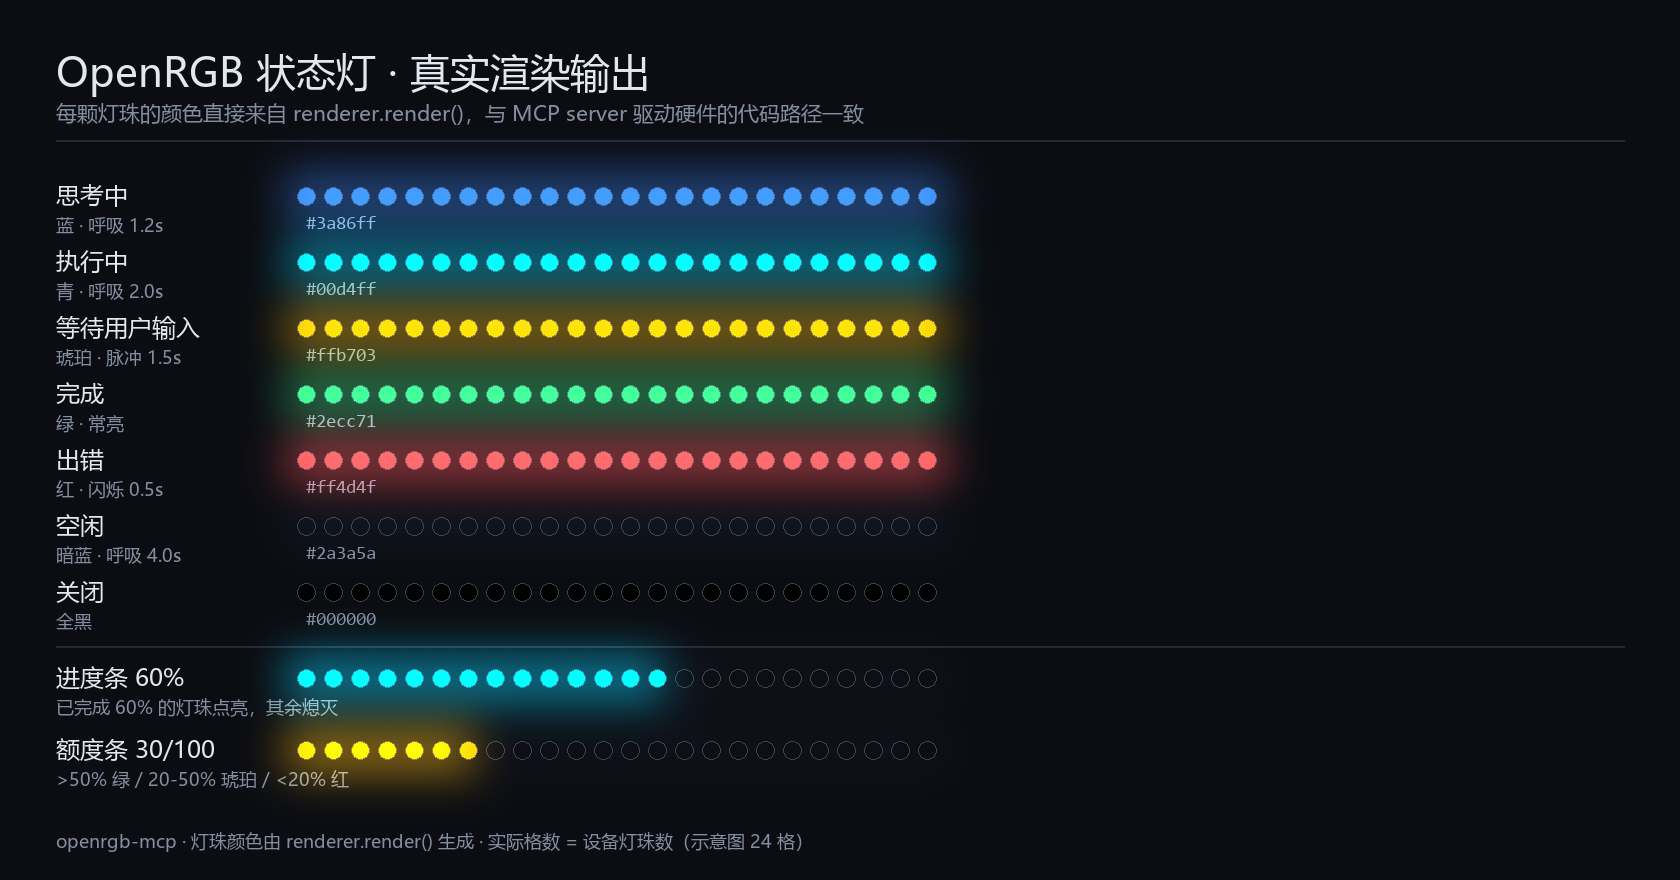
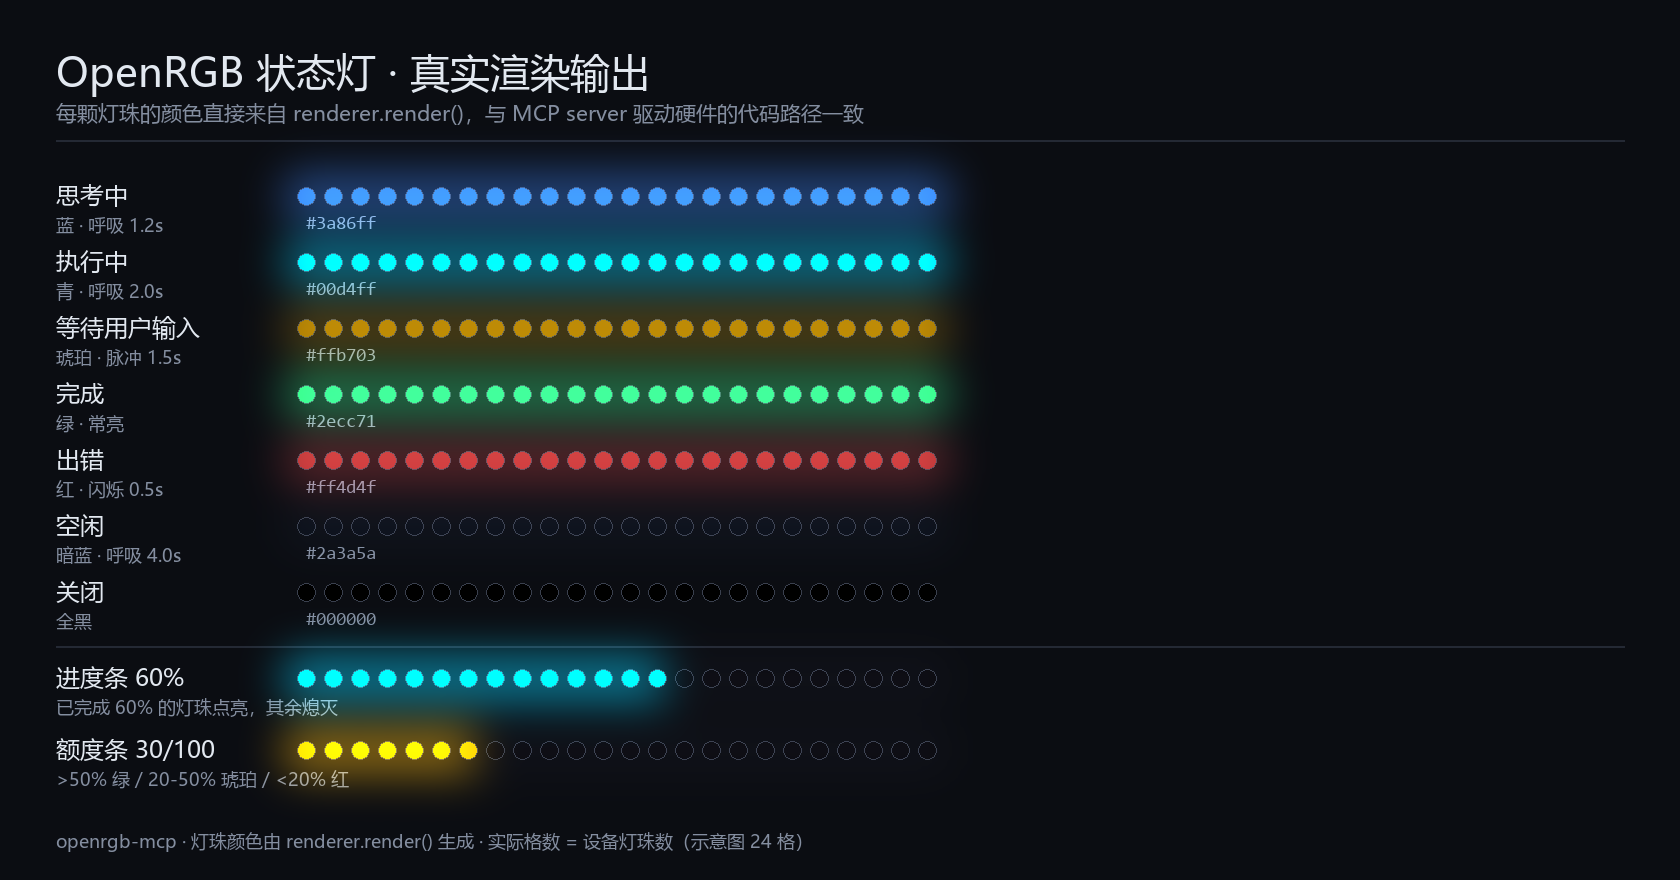
fix: soften every animation - no strobing, slower periods
The 0.5 s hard blink (and the 1.5 s pulse) were harsh on the eyes.

- new 'fade' effect: smooth cosine dip to 20% and back, never reaches black
- 'blink' is kept as a legacy alias of 'fade', so old palettes stay soft
- periods raised: thinking 1.2 -> 2.4 s, working 2.0 -> 3.2 s,
  waiting 1.5 -> 3.6 s (fade), error 0.5 -> 2.8 s (fade)
- measured: max frame-to-frame brightness change is 9..19 (a hard blink
  would be ~255), i.e. every animation is now a continuous curve
- tests updated (fade continuity, no blackout, palette periods)
- docs: README/CONTRACT palette tables and the generated state chart

Changed region(s): [[0.1548, 0.4909, 0.5571, 0.5523], [0.1548, 0.3375, 0.5571, 0.3989]]

diff --git a/tests/test_renderer.py b/tests/test_renderer.py
@@ -62,17 +62,21 @@ def assert_pixels(pixels, count):
 def test_default_palette_matches_contract():
     expected = {
         "idle":     {"color": "#2a3a5a", "brightness": 0.25, "effect": "breathe", "period": 4.0},
-        "thinking": {"color": "#3a86ff", "brightness": 0.85, "effect": "breathe", "period": 1.2},
-        "working":  {"color": "#00d4ff", "brightness": 0.9,  "effect": "breathe", "period": 2.0},
-        "waiting":  {"color": "#ffb703", "brightness": 0.9,  "effect": "pulse",   "period": 1.5},
+        "thinking": {"color": "#3a86ff", "brightness": 0.85, "effect": "breathe", "period": 2.4},
+        "working":  {"color": "#00d4ff", "brightness": 0.9,  "effect": "breathe", "period": 3.2},
+        "waiting":  {"color": "#ffb703", "brightness": 0.9,  "effect": "fade",    "period": 3.6},
         "done":     {"color": "#2ecc71", "brightness": 1.0,  "effect": "solid",   "period": 0},
-        "error":    {"color": "#ff4d4f", "brightness": 1.0,  "effect": "blink",   "period": 0.5},
+        "error":    {"color": "#ff4d4f", "brightness": 1.0,  "effect": "fade",    "period": 2.8},
         "off":      {"color": "#000000", "brightness": 0.0,  "effect": "off",     "period": 0},
     }
     assert DEFAULT_PALETTE == expected
     assert tuple(DEFAULT_PALETTE) == (
         "idle", "thinking", "working", "waiting", "done", "error", "off")
     assert renderer.STATES == tuple(DEFAULT_PALETTE)
+    # no hard strobe anywhere: every animated state is slow and continuous
+    for name, spec in DEFAULT_PALETTE.items():
+        if spec["effect"] in ("breathe", "fade", "blink", "pulse"):
+            assert spec["period"] >= 2.0, (name, spec)
 
 
 def test_hex_parsing():
@@ -176,25 +180,47 @@ def test_breathe_monotonic_and_bounded():
         assert samples[60] == trough, (state, samples[60], trough)
 
 
-def test_blink_alternates():
-    period = DEFAULT_PALETTE["error"]["period"]
-    assert period == 0.5
-    for tick in (0.0, 0.1, 0.249):
-        assert render("error", 3, tick=tick) == [ERROR] * 3, tick
-    for tick in (0.25, 0.4, 0.499, 0.75, 1.25):
-        assert render("error", 3, tick=tick) == [BLACK] * 3, tick
-    assert render("error", 3, tick=0.5) == [ERROR] * 3
-    assert render("error", 3, tick=1.0) == [ERROR] * 3
+def test_fade_is_smooth_and_never_black():
+    """'error'/'waiting' fade instead of blinking: continuous, never black."""
+    for state in ("error", "waiting"):
+        spec = DEFAULT_PALETTE[state]
+        color = parse_hex_color(spec["color"])
+        period = spec["period"]
+        assert period >= 2.0, (state, period)
+        samples = [render(state, 1, tick=index * period / 40)[0] for index in range(41)]
+        # never a hard blackout - the lamp stays softly lit
+        for pixel in samples:
+            assert pixel != BLACK, (state, pixel)
+            assert max(pixel) >= 1, (state, pixel)
+        # the curve is continuous: neighbouring frames never jump far
+        # (a hard blink would jump by the full colour range)
+        for previous, current in zip(samples, samples[1:]):
+            jump = max(abs(a - b) for a, b in zip(previous, current))
+            assert jump <= 30, (state, previous, current, jump)
+        total_jump = max(
+            max(abs(a - b) for a, b in zip(first, last))
+            for first, last in zip(samples, samples[1:])
+        )
+        assert total_jump < 120, (state, total_jump)
+        # it does dip and come back
+        assert max(samples, key=max) != min(samples, key=max)
+        # a legacy "blink" palette entry is softened too, never a hard switch
+        legacy = render(state, 1, tick=period / 2, palette={state: {"effect": "blink"}})
+        assert legacy[0] != BLACK, legacy
 
 
 def test_pulse_varies_and_is_bounded():
-    spec = DEFAULT_PALETTE["waiting"]
+    """The optional 'pulse' effect (not used by the default palette any more)."""
+    palette = {"waiting": {"effect": "pulse", "period": 2.0, "brightness": 0.9}}
+    spec = {"color": "#ffb703", "brightness": 0.9, "period": 2.0}
     color = parse_hex_color(spec["color"])
-    period = spec["period"]
     brightness = spec["brightness"]
     ceiling = apply_color(color, brightness * 1.0)
 
-    samples = [render("waiting", 1, tick=index * period / 20)[0] for index in range(21)]
+    samples = [
+        render("waiting", 1, tick=index * spec["period"] / 20, palette=palette)[0]
+        for index in range(21)
+    ]
     assert len(set(samples)) >= 5, "pulse must vary over a period"
 
     peak = samples[5]    # phase 0.25 (sin maximum)
@@ -258,8 +284,8 @@ def test_progress_clamps_and_uses_python_round():
 
 
 def test_progress_overrides_animation():
-    # error blinks dark during the second half of its 0.5 s period ...
-    assert render("error", 8, tick=0.4) == [BLACK] * 8
+    # the error state fades smoothly and is never fully black ...
+    assert render("error", 8, tick=0.4) != [BLACK] * 8
     # ... but a progress bar is static and replaces the state effect.
     assert render("error", 8, tick=0.4, progress=0.5) == [ERROR] * 4 + [EMPTY] * 4
 
@@ -314,10 +340,10 @@ def test_color_override():
     # invalid hex falls back to the palette colour
     assert render("done", 3, color="#zzzzzz") == [DONE] * 3
     # brightness/animation of the state are preserved
-    expected = apply_color((255, 255, 255), 0.85 * breathe_factor(0.0, 1.2))
+    expected = apply_color((255, 255, 255), 0.85 * breathe_factor(0.0, 2.4))
     assert render("thinking", 2, tick=0.0, color="#ffffff") == [expected] * 2
-    # color override does not defeat the blink effect
-    assert render("error", 5, tick=0.4, color="#00ff00") == [BLACK] * 5
+    # color override does not defeat the state effect either
+    assert render("error", 5, tick=0.4, color="#00ff00") != [BLACK] * 5
 
 
 # ---------------------------------------------------------------------------
@@ -426,7 +452,7 @@ TESTS = [
     test_done_state_is_solid,
     test_breathe_matches_contract_formula,
     test_breathe_monotonic_and_bounded,
-    test_blink_alternates,
+    test_fade_is_smooth_and_never_black,
     test_pulse_varies_and_is_bounded,
     test_unknown_state_falls_back_to_idle,
     test_state_name_normalization,

diff --git a/src/openrgb_mcp/renderer.py b/src/openrgb_mcp/renderer.py
@@ -9,13 +9,16 @@ bar.
 Animation model (``tick`` is seconds relative to an arbitrary origin):
 
     breathe   brightness = base * (0.55 + 0.45 * (0.5 + 0.5*sin(2*pi*tick/period)))
-    blink     lit during the first half of ``period``, dark during the second
+    fade      smooth dip to 20% and back, never fully black (no strobing)
+    blink     legacy name for ``fade`` - kept soft on purpose
     pulse     smooth square pulse, brightness factor in [0.2, 1.0] of ``base``
     solid     full ``base`` brightness
     off       always black
 
-``breathe``, ``blink`` and ``pulse`` need a positive ``period``; a zero/absent
-period makes them behave like ``solid``.
+Every time-based effect is a continuous curve, so the lamp never strobes:
+there is no hard on/off switch anywhere in the palette.  ``breathe``, ``fade``,
+``blink`` and ``pulse`` need a positive ``period``; a zero/absent period makes
+them behave like ``solid``.
 
 Bars (``progress`` / ``quota``) are static -- ``tick`` is ignored for them --
 and take precedence over the state effect: lit cells use the bar colour at full
@@ -49,11 +52,11 @@ __all__ = ["DEFAULT_PALETTE", "STATES", "render", "parse_hex_color"]
 
 DEFAULT_PALETTE = {
     "idle":     {"color": "#2a3a5a", "brightness": 0.25, "effect": "breathe", "period": 4.0},
-    "thinking": {"color": "#3a86ff", "brightness": 0.85, "effect": "breathe", "period": 1.2},
-    "working":  {"color": "#00d4ff", "brightness": 0.9,  "effect": "breathe", "period": 2.0},
-    "waiting":  {"color": "#ffb703", "brightness": 0.9,  "effect": "pulse",   "period": 1.5},
+    "thinking": {"color": "#3a86ff", "brightness": 0.85, "effect": "breathe", "period": 2.4},
+    "working":  {"color": "#00d4ff", "brightness": 0.9,  "effect": "breathe", "period": 3.2},
+    "waiting":  {"color": "#ffb703", "brightness": 0.9,  "effect": "fade",    "period": 3.6},
     "done":     {"color": "#2ecc71", "brightness": 1.0,  "effect": "solid",   "period": 0},
-    "error":    {"color": "#ff4d4f", "brightness": 1.0,  "effect": "blink",   "period": 0.5},
+    "error":    {"color": "#ff4d4f", "brightness": 1.0,  "effect": "fade",    "period": 2.8},
     "off":      {"color": "#000000", "brightness": 0.0,  "effect": "off",     "period": 0},
 }
 
@@ -194,7 +197,11 @@ def _effect(spec: dict) -> str:
 
 
 def _wave_factor(effect: str, tick: float, period: float) -> float:
-    """Brightness multiplier in [0.0, 1.0] for ``effect`` at ``tick``."""
+    """Brightness multiplier in [0.0, 1.0] for ``effect`` at ``tick``.
+
+    Every effect is a continuous curve - the lamp eases between two
+    brightness levels instead of switching on and off, so it never strobes.
+    """
     if effect == "off":
         return 0.0
     if effect == "solid":
@@ -204,14 +211,15 @@ def _wave_factor(effect: str, tick: float, period: float) -> float:
         return 1.0
 
     phase = (tick % period) / period
-
-    if effect == "blink":
-        return 1.0 if phase < 0.5 else 0.0
-
     angle = 2.0 * math.pi * phase
 
     if effect == "breathe":
+        # Smooth 55%..100% wave - gentle amplitude, no hard edges.
         return 0.55 + 0.45 * (0.5 + 0.5 * math.sin(angle))
+
+    if effect in ("fade", "blink"):
+        # Gentle dip to 20% and back; never reaches black, never hard-cuts.
+        return 0.2 + 0.8 * (0.5 - 0.5 * math.cos(angle))
 
     if effect == "pulse":
         # Smooth square pulse: fast rise/fall around a soft plateau.

diff --git a/src/openrgb_mcp/server.py b/src/openrgb_mcp/server.py
@@ -94,8 +94,9 @@ def set_state(
 
     state: idle | thinking | working | waiting | done | error | off
     (aliases such as complete/failed/ask are accepted).
-    thinking = blue breathing, working = cyan breathing, waiting = amber pulse,
-    done = solid green, error = red blinking, idle = dim blue breathing,
+    All animations are slow, continuous fades - the lamp never strobes.
+    thinking = blue breathing, working = cyan breathing, waiting = amber fade,
+    done = solid green, error = red fade, idle = dim blue breathing,
     off = lights out. detail is a short note kept in the status output.
     animate: set to false to freeze the effect."""
     return StatusResult(**engine().set_state(state, detail=detail, animate=animate))

diff --git a/CONTRACT.md b/CONTRACT.md
@@ -144,11 +144,11 @@ class OpenRGBClient:
 ```python
 DEFAULT_PALETTE = {
     "idle":     {"color": "#2a3a5a", "brightness": 0.25, "effect": "breathe", "period": 4.0},
-    "thinking": {"color": "#3a86ff", "brightness": 0.85, "effect": "breathe", "period": 1.2},
-    "working":  {"color": "#00d4ff", "brightness": 0.9,  "effect": "breathe", "period": 2.0},
-    "waiting":  {"color": "#ffb703", "brightness": 0.9,  "effect": "pulse",   "period": 1.5},
+    "thinking": {"color": "#3a86ff", "brightness": 0.85, "effect": "breathe", "period": 2.4},
+    "working":  {"color": "#00d4ff", "brightness": 0.9,  "effect": "breathe", "period": 3.2},
+    "waiting":  {"color": "#ffb703", "brightness": 0.9,  "effect": "fade",    "period": 3.6},
     "done":     {"color": "#2ecc71", "brightness": 1.0,  "effect": "solid",   "period": 0},
-    "error":    {"color": "#ff4d4f", "brightness": 1.0,  "effect": "blink",   "period": 0.5},
+    "error":    {"color": "#ff4d4f", "brightness": 1.0,  "effect": "fade",    "period": 2.8},
     "off":      {"color": "#000000", "brightness": 0.0,  "effect": "off",     "period": 0},
 }
 
@@ -165,7 +165,13 @@ def render(state: str, led_count: int, tick: float = 0.0,
 - 永远返回恰好 `led_count` 个 `(r,g,b)` 0..255 整数元组。
 - `state` 未知时按 idle 渲染。
 - progress/quota 条：`filled = round(clamp(frac,0,1) * led_count)`；已点亮格使用状态色（progress_color 优先），未点亮格用 empty_color。剩余额度颜色：`frac > 0.5` 绿 `#2ecc71`，`0.2 < frac <= 0.5` 琥珀 `#ffb703`，`frac <= 0.2` 红 `#ff4d4f`。
-- 动画：`breathe` 亮度 = base * (0.55 + 0.45*(0.5+0.5*sin(2π*tick/period)))；`blink`：周期内前 50% 亮、后 50% 灭；`pulse`：见实现（smooth 方形脉冲）；`solid`、`off` 固定。
+- 动画（**全部是连续曲线，不允许硬切换**）：
+  - `breathe`：base * (0.55 + 0.45*(0.5+0.5*sin(2π*tick/period)))，55%..100%；
+  - `fade`：base * (0.2 + 0.8*(0.5-0.5*cos(2π*tick/period)))，20%..100%，永不熄黑；
+  - `blink`：历史名称，等同 `fade`（避免频闪）；
+  - `pulse`：smooth 方形脉冲，因子 0.2..1.0；
+  - `solid`、`off` 固定。
+  - 默认调色板中所有动画状态 `period ≥ 2.0s`，避免刺眼。
 - 单元测试 `tests/test_renderer.py`：纯 `assert` + 末尾打印 `OK`，`python tests/test_renderer.py` 可跑（无 pytest 依赖）。
 
 ## 6. MCP server（`src/openrgb_mcp/server.py`）

diff --git a/README.md b/README.md
@@ -111,13 +111,16 @@ openrgb-mcp --transport streamable-http --port 8765   # HTTP
 
 | 状态 | 颜色 | 效果 |
 |---|---|---|
-| `idle` | `#2a3a5a` 暗蓝 | 呼吸 4s，亮度 25% |
-| `thinking` | `#3a86ff` 蓝 | 呼吸 1.2s |
-| `working` | `#00d4ff` 青 | 呼吸 2s |
-| `waiting` | `#ffb703` 琥珀 | 脉冲 1.5s |
+| `idle` | `#2a3a5a` 暗蓝 | 缓慢呼吸 4.0s，亮度 25% |
+| `thinking` | `#3a86ff` 蓝 | 柔和呼吸 2.4s |
+| `working` | `#00d4ff` 青 | 柔和呼吸 3.2s |
+| `waiting` | `#ffb703` 琥珀 | 缓慢明暗过渡 3.6s |
 | `done` | `#2ecc71` 绿 | 常亮（默认 8s 后回 idle，见 `done_hold_seconds`） |
-| `error` | `#ff4d4f` 红 | 闪烁 0.5s |
+| `error` | `#ff4d4f` 红 | 缓慢明暗过渡 2.8s |
 | `off` | 全黑 | 关闭 |
+
+> 所有动画都是**连续曲线**：最暗也保留 20% 亮度，**没有任何硬切换/频闪**，长时间看不会刺眼。
+> 想再调慢：`config.json` 里改 `period`（秒），或改 `effect`（`breathe` / `fade` / `solid` / `off`）。
 
 自定义示例 `config.json`：
 
